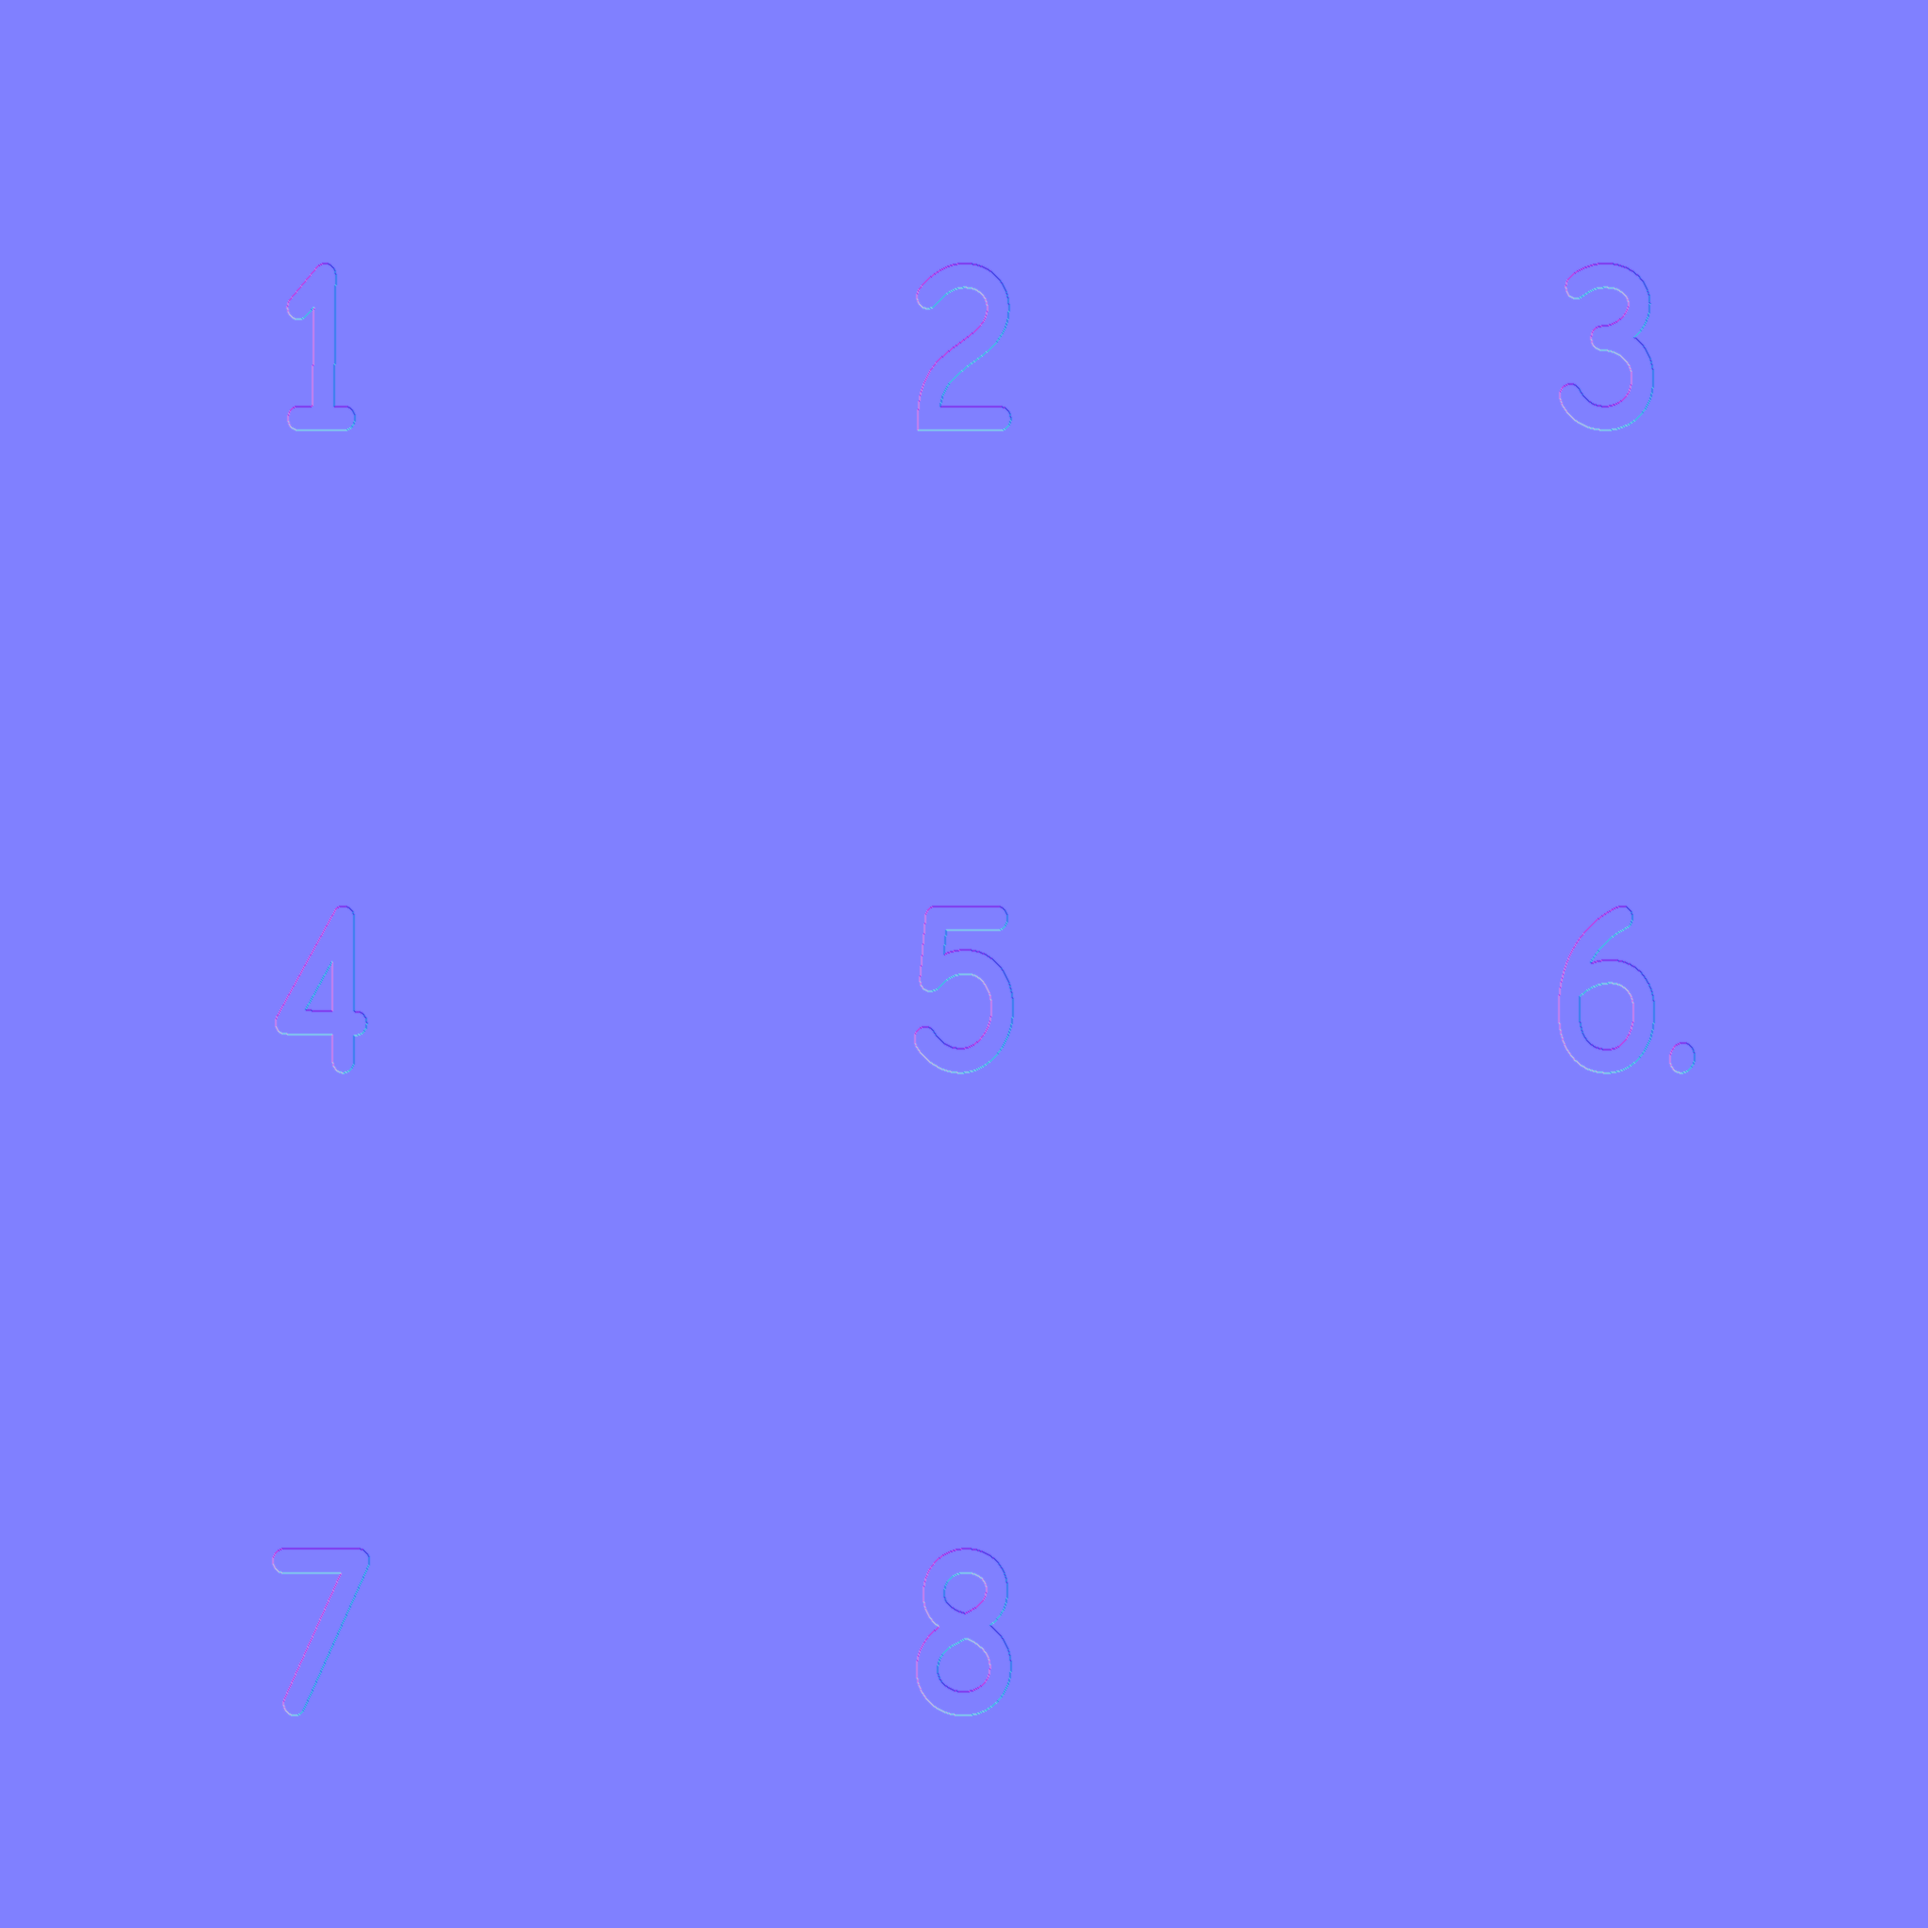
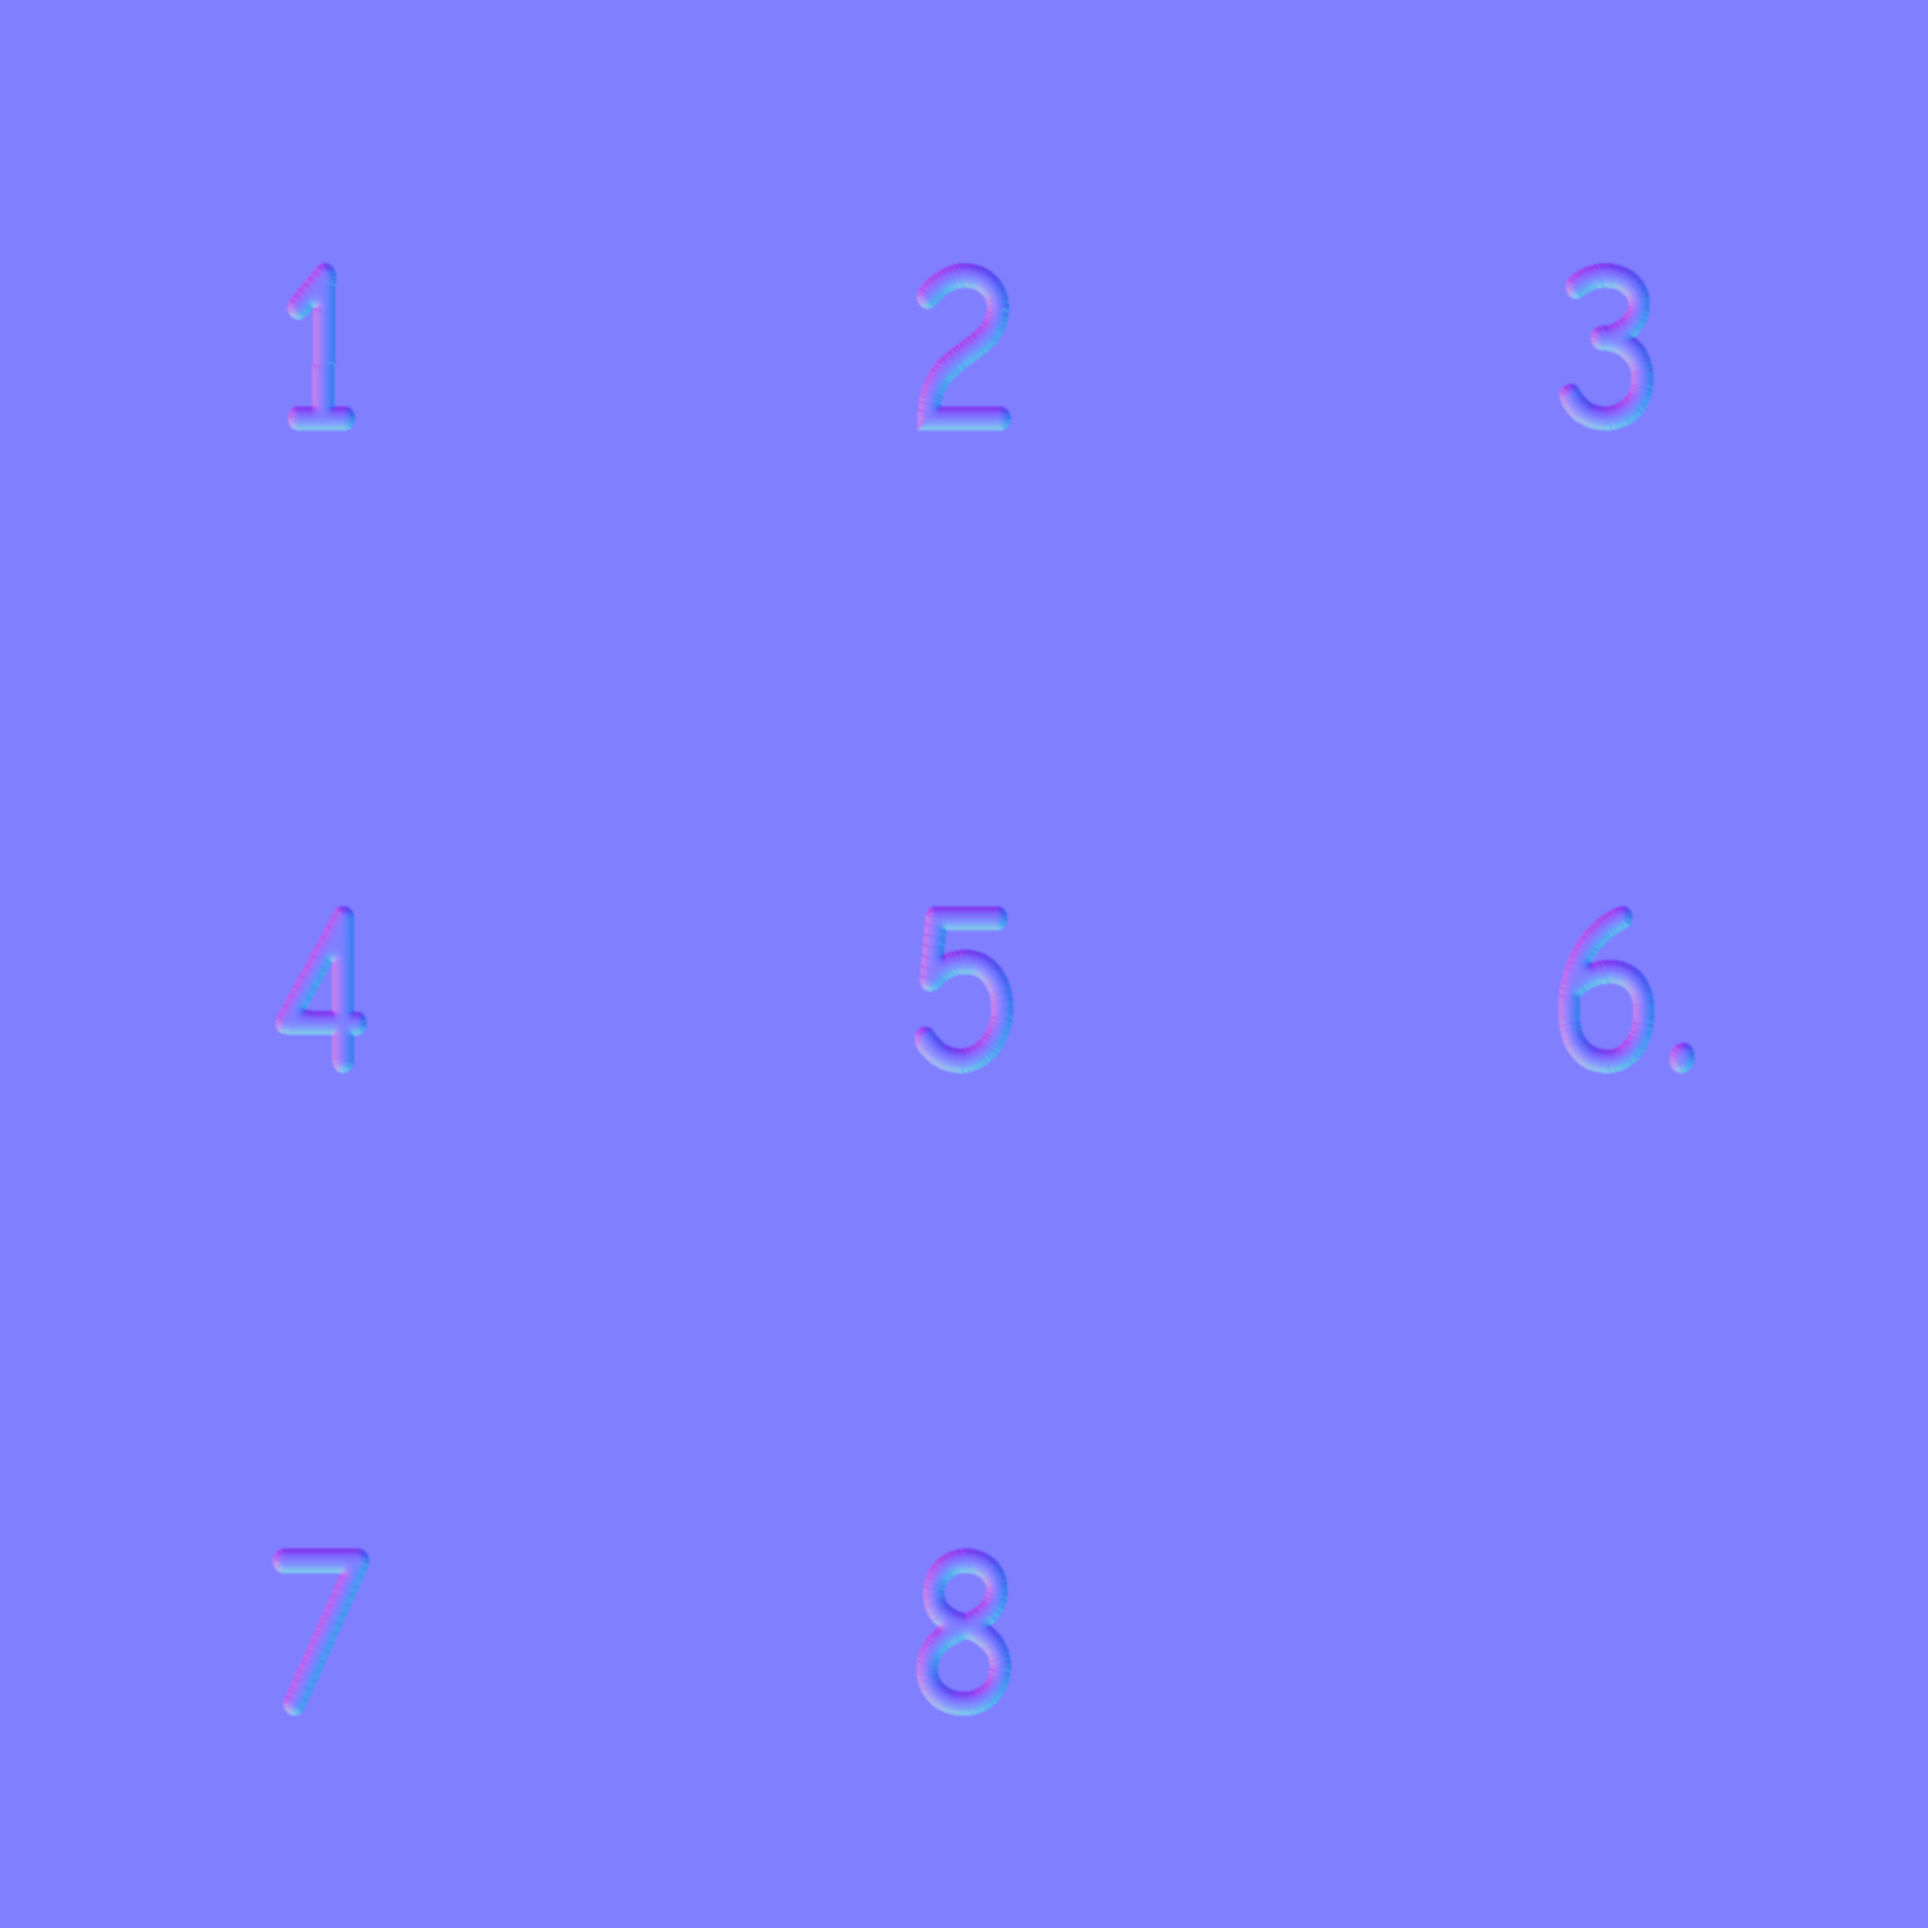
Restore rounded recessed dice engraving and verify tangent orientation

diff --git a/scripts/assets/center-dice-labels.py b/scripts/assets/center-dice-labels.py
@@ -16,7 +16,7 @@ from PIL import Image, ImageDraw
 from scipy import ndimage
 
 sys.path.insert(0, str(Path(__file__).parent))
-from dice_style import ENGRAVING_HALF_WIDTH_MM, ENGRAVING_DEPTH_MM
+from dice_style import ENGRAVING_ROUNDING_MM, ENGRAVING_SMOOTHING_MM, ENGRAVING_DEPTH_MM
 
 ROOT = Path(__file__).resolve().parents[2]
 ASSETS = ROOT / "src/assets"
@@ -131,25 +131,24 @@ def label_mask(image, threshold=100):
 
 
 def engraving_normal(color, blank, texels_per_mm=None):
-    """Derive an inset lip from the final ink, so geometry and print cannot drift.
+    """Derive rounded recessed strokes from the final ink without print/normal drift.
 
-    Image rows run downwards; tangent-space +Y runs upwards. Negative height
-    inside the ink gives an engraving, with the opposite signs for X/Y slopes.
+    The exported Blender bitangent opposes increasing atlas rows (verified
+    against the mesh in test_paint_uvs). Negative height inside the ink gives
+    a recess, with opposite signs for X/Y slopes.
     """
     ink = label_mask(color)
-    distance = ndimage.distance_transform_edt(ink) - ndimage.distance_transform_edt(
-        ~ink
+    density = color.width / 16 if texels_per_mm is None else texels_per_mm
+    # Distance grows inward from the antialiased ink boundary. A rounded scoop
+    # continues curving through the stroke instead of ending at a flat lip.
+    distance = np.maximum(ndimage.distance_transform_edt(ink) - 0.5, 0)
+    radius = ENGRAVING_ROUNDING_MM * density
+    height = -ENGRAVING_DEPTH_MM * density * np.tanh(distance / radius)
+    # Round the rim and medial-axis joins, avoiding staircase highlights and
+    # sharp creases where two sides of a narrow numeral stroke meet.
+    height = ndimage.gaussian_filter(
+        height, max(0.75, ENGRAVING_SMOOTHING_MM * density), truncate=3
     )
-    radius = (
-        max(1.5, color.width / 800)
-        if texels_per_mm is None
-        else max(1.5, ENGRAVING_HALF_WIDTH_MM * texels_per_mm)
-    )
-    depth = (
-        radius * 0.9 if texels_per_mm is None else ENGRAVING_DEPTH_MM * texels_per_mm
-    )
-    t = np.clip((distance + radius) / (2 * radius), 0, 1)
-    height = -depth * t * t * (3 - 2 * t)
     dy, dx = np.gradient(height)
     base = np.asarray(blank).astype(float) / 127.5 - 1
     # Encoded neutral normals use 128, so remove their half-step bias.
@@ -160,7 +159,7 @@ def engraving_normal(color, blank, texels_per_mm=None):
     )
     normal /= np.linalg.norm(normal, axis=-1, keepdims=True)
     encoded = np.rint((normal + 1) * 127.5).clip(0, 255).astype("uint8")
-    # Preserve the exact blank pixels outside the lip, including baked bevels.
+    # Preserve exact neutral pixels outside the groove and its smoothed rim.
     changed = (dx != 0) | (dy != 0)
     output = np.array(blank)
     output[changed] = encoded[changed]

diff --git a/scripts/assets/test_centered_labels.py b/scripts/assets/test_centered_labels.py
@@ -19,6 +19,26 @@ spec.loader.exec_module(center)
 
 
 class CenteredLabelsTests(unittest.TestCase):
+    def test_rounded_groove_has_curved_sides_and_a_smooth_recessed_floor(self):
+        # A 0.6 mm stroke at 100 px/mm: sample well inside the old 0.08 mm
+        # rim to catch a regression back to a flat-bottomed outline.
+        pixels = np.full((512, 512, 3), 255, dtype=np.uint8)
+        pixels[180:332, 226:286] = 0
+        normal = np.asarray(
+            center.engraving_normal(
+                Image.fromarray(pixels),
+                Image.new("RGB", (512, 512), (128, 128, 255)),
+                100,
+            )
+        ).astype(float)
+        x = (normal[256, :, 0] - 127.5) / 127.5
+        self.assertGreater(x[238], 0.25)
+        self.assertLess(x[273], -0.25)
+        self.assertGreater(x[238], x[249])
+        self.assertLess(abs(x[255]), 0.06)
+        self.assertLess(np.max(np.abs(np.diff(x[245:267]))), 0.08)
+        np.testing.assert_array_equal(normal[256, 200], [128, 128, 255])
+
     def test_every_label_is_centered_and_keeps_its_components(self):
         for name in center.NAMES:
             folder, faces = center.face_uvs(name)
@@ -192,7 +212,7 @@ class CenteredLabelsTests(unittest.TestCase):
                     self.assertGreater(np.mean(dot[edge] > 0), 0.97)
                     near_edge = ndimage.maximum_filter(edge, size=9)
                     changed = np.linalg.norm(residual, axis=-1) > 8
-                    self.assertLess(np.mean(changed[~near_edge]), 0.0001)
+                    self.assertLess(np.mean(changed[~(near_edge | ink)]), 0.0001)
 
     def test_face_boundaries_have_white_filtering_padding(self):
         for name in ("die", *center.NAMES):

diff --git a/scripts/assets/test_paint_uvs.py b/scripts/assets/test_paint_uvs.py
@@ -66,6 +66,29 @@ class PaintUVTests(unittest.TestCase):
                 ids = read(
                     p["indices"], 1, {5123: "<u2", 5125: "<u4"}[a["componentType"]]
                 ).reshape(-1, 3)
+                # Validate the actual exported basis, not just a presumed
+                # green-channel convention: these Blender frames have +B
+                # opposing increasing atlas rows. Generated recess normals
+                # therefore use +dy in green and -dx in red.
+                checked = 0
+                for tri in ids:
+                    if (
+                        np.max(np.linalg.norm(normals[tri] - normals[tri[0]], axis=1))
+                        > 1e-6
+                    ):
+                        continue
+                    duv = uv[tri[1:]] - uv[tri[0]]
+                    frame = np.linalg.solve(duv, xyz[tri[1:]] - xyz[tri[0]])
+                    tangent = tangents[tri[0]]
+                    bitangent = np.cross(normals[tri[0]], tangent[:3]) * tangent[3]
+                    self.assertGreater(
+                        np.dot(tangent[:3], frame[0]) / np.linalg.norm(frame[0]), 0.999
+                    )
+                    self.assertLess(
+                        np.dot(bitangent, frame[1]) / np.linalg.norm(frame[1]), -0.999
+                    )
+                    checked += 1
+                self.assertGreater(checked, 0)
                 columns = layout["columns"]
                 tiles = np.floor(uv * columns).astype(int)
                 slots = tiles[:, 1] * columns + tiles[:, 0]

diff --git a/scripts/assets/dice_style.py b/scripts/assets/dice_style.py
@@ -10,5 +10,6 @@ FILLET_MM = 1.2
 LABEL_CLEARANCE_MM = 0.45
 LABEL_MAX_HEIGHT_MM = 7.0
 LABEL_FACE_FRACTION = 0.60
-ENGRAVING_HALF_WIDTH_MM = 0.08
-ENGRAVING_DEPTH_MM = 0.05
+ENGRAVING_ROUNDING_MM = 0.25
+ENGRAVING_SMOOTHING_MM = 0.04
+ENGRAVING_DEPTH_MM = 0.18

diff --git a/README.md b/README.md
@@ -95,8 +95,10 @@ These are visual targets, not exact measurements or the proprietary Chessex font
 References: https://gnomishbazaar.com/products/chessex-opaque-white-black-polyhedral-7-die-set-chx25401
 and https://superretro.com.au/products/polyhedral-7-die-set-opaque-ivoryblack.
 
-Engraving normals are regenerated after this fitting, with a 0.05 mm virtual
-depth and 0.08 mm lip half-width converted through each model's UV texel density.
+Engraving normals are regenerated after this fitting, with a 0.18 mm virtual
+depth, a 0.25 mm rounded inward profile, and 0.04 mm rim smoothing converted
+through each model's UV texel density. The groove curves across the numeral
+stroke instead of producing a narrow lip around a flat bottom.
 Mesh normals remain analytic and tangent frames are rebuilt for the new meshes;
 blank models retain the shared neutral normal texel.
 
